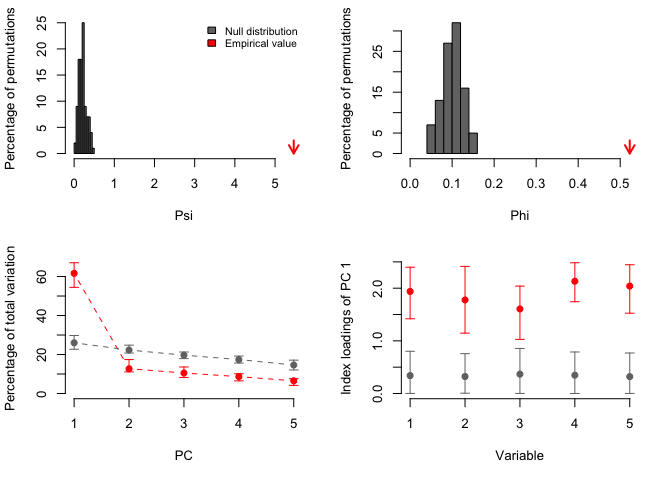
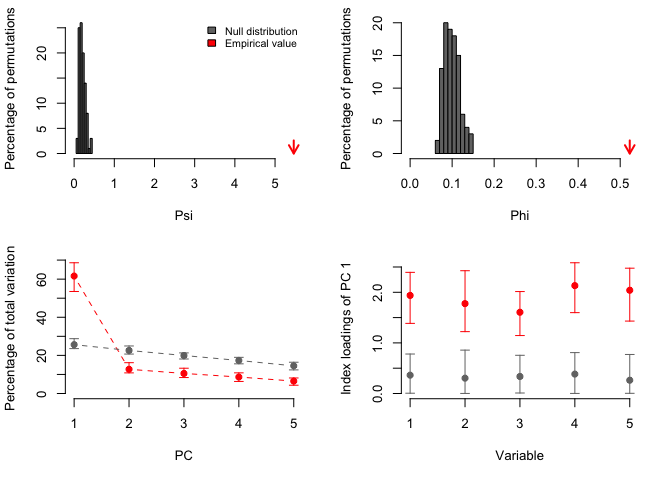
fix readme

diff --git a/README.md b/README.md
@@ -52,8 +52,8 @@ result<-PCAtest(ex0, 100, 100, 0.05, varcorr=FALSE, counter=FALSE, plot=TRUE)
 #> 100 bootstrap replicates, 100 random permutations
 #> ========================================================
 #> 
-#> Empirical Psi = 0.1691, Max null Psi = 0.5500, Min null Psi = 0.0538, p-value = 0.58
-#> Empirical Phi = 0.0920, Max null Phi = 0.1658, Min null Phi = 0.0519, p-value = 0.58
+#> Empirical Psi = 0.1691, Max null Psi = 0.5249, Min null Psi = 0.0578, p-value = 0.54
+#> Empirical Phi = 0.0920, Max null Phi = 0.1620, Min null Phi = 0.0538, p-value = 0.54
 #> 
 #> PCA is not significant!
 ```
@@ -78,16 +78,16 @@ result<-PCAtest(ex05, 100, 100, 0.05, varcorr=FALSE, counter=FALSE, plot=TRUE)
 #> 100 bootstrap replicates, 100 random permutations
 #> ========================================================
 #> 
-#> Empirical Psi = 5.4655, Max null Psi = 0.4907, Min null Psi = 0.0352, p-value = 0
-#> Empirical Phi = 0.5228, Max null Phi = 0.1566, Min null Phi = 0.0420, p-value = 0
+#> Empirical Psi = 5.4655, Max null Psi = 0.4143, Min null Psi = 0.0722, p-value = 0
+#> Empirical Phi = 0.5228, Max null Phi = 0.1439, Min null Phi = 0.0601, p-value = 0
 #> 
-#> Empirical eigenvalue #1 = 3.08098, Max null eigenvalue = 1.55398, p-value = 0
-#> Empirical eigenvalue #2 = 0.63526, Max null eigenvalue = 1.28982, p-value = 1
-#> Empirical eigenvalue #3 = 0.52603, Max null eigenvalue = 1.07691, p-value = 1
-#> Empirical eigenvalue #4 = 0.43234, Max null eigenvalue = 0.96972, p-value = 1
-#> Empirical eigenvalue #5 = 0.3254, Max null eigenvalue = 0.88768, p-value = 1
+#> Empirical eigenvalue #1 = 3.08098, Max null eigenvalue = 1.44839, p-value = 0
+#> Empirical eigenvalue #2 = 0.63526, Max null eigenvalue = 1.28687, p-value = 1
+#> Empirical eigenvalue #3 = 0.52603, Max null eigenvalue = 1.07151, p-value = 1
+#> Empirical eigenvalue #4 = 0.43234, Max null eigenvalue = 0.96044, p-value = 1
+#> Empirical eigenvalue #5 = 0.3254, Max null eigenvalue = 0.87155, p-value = 1
 #> 
-#> PC 1 is significant and accounts for 61.6% (95%-CI:54.5-67.1) of the total variation
+#> PC 1 is significant and accounts for 61.6% (95%-CI:53.5-68.6) of the total variation
 #> 
 #> Variables 1, 2, 3, 4, and 5 have significant loadings on PC 1
 ```
@@ -114,14 +114,14 @@ result<-PCAtest(ex1, 100, 100, 0.05, varcorr=FALSE, counter=FALSE, plot=TRUE)
 #> 100 bootstrap replicates, 100 random permutations
 #> ========================================================
 #> 
-#> Empirical Psi = 20.0000, Max null Psi = 0.4631, Min null Psi = 0.0375, p-value = 0
-#> Empirical Phi = 1.0000, Max null Phi = 0.1522, Min null Phi = 0.0433, p-value = 0
+#> Empirical Psi = 20.0000, Max null Psi = 0.6435, Min null Psi = 0.0473, p-value = 0
+#> Empirical Phi = 1.0000, Max null Phi = 0.1794, Min null Phi = 0.0486, p-value = 0
 #> 
-#> Empirical eigenvalue #1 = 5, Max null eigenvalue = 1.52565, p-value = 0
-#> Empirical eigenvalue #2 = 0, Max null eigenvalue = 1.29655, p-value = 1
-#> Empirical eigenvalue #3 = 0, Max null eigenvalue = 1.08443, p-value = 1
-#> Empirical eigenvalue #4 = 0, Max null eigenvalue = 0.99852, p-value = 1
-#> Empirical eigenvalue #5 = 0, Max null eigenvalue = 0.85708, p-value = 1
+#> Empirical eigenvalue #1 = 5, Max null eigenvalue = 1.64792, p-value = 0
+#> Empirical eigenvalue #2 = 0, Max null eigenvalue = 1.27693, p-value = 1
+#> Empirical eigenvalue #3 = 0, Max null eigenvalue = 1.1191, p-value = 1
+#> Empirical eigenvalue #4 = 0, Max null eigenvalue = 0.96938, p-value = 1
+#> Empirical eigenvalue #5 = 0, Max null eigenvalue = 0.87115, p-value = 1
 #> 
 #> PC 1 is significant and accounts for 100% (95%-CI:100-100) of the total variation
 #> 
@@ -149,18 +149,18 @@ result<-PCAtest(ants, 100, 100, 0.05, varcorr=FALSE, counter=FALSE, plot=TRUE)
 #> 100 bootstrap replicates, 100 random permutations
 #> ========================================================
 #> 
-#> Empirical Psi = 10.9186, Max null Psi = 3.1379, Min null Psi = 0.5491, p-value = 0
-#> Empirical Phi = 0.5099, Max null Phi = 0.2733, Min null Phi = 0.1143, p-value = 0
+#> Empirical Psi = 10.9186, Max null Psi = 2.5630, Min null Psi = 0.3943, p-value = 0
+#> Empirical Phi = 0.5099, Max null Phi = 0.2470, Min null Phi = 0.0969, p-value = 0
 #> 
-#> Empirical eigenvalue #1 = 3.84712, Max null eigenvalue = 2.42375, p-value = 0
-#> Empirical eigenvalue #2 = 1.52017, Max null eigenvalue = 1.69682, p-value = 0.15
-#> Empirical eigenvalue #3 = 0.70634, Max null eigenvalue = 1.39666, p-value = 1
-#> Empirical eigenvalue #4 = 0.41356, Max null eigenvalue = 1.1099, p-value = 1
-#> Empirical eigenvalue #5 = 0.34001, Max null eigenvalue = 0.91841, p-value = 1
-#> Empirical eigenvalue #6 = 0.14515, Max null eigenvalue = 0.7221, p-value = 1
-#> Empirical eigenvalue #7 = 0.02765, Max null eigenvalue = 0.64705, p-value = 1
+#> Empirical eigenvalue #1 = 3.84712, Max null eigenvalue = 2.17652, p-value = 0
+#> Empirical eigenvalue #2 = 1.52017, Max null eigenvalue = 1.71716, p-value = 0.25
+#> Empirical eigenvalue #3 = 0.70634, Max null eigenvalue = 1.42897, p-value = 1
+#> Empirical eigenvalue #4 = 0.41356, Max null eigenvalue = 1.138, p-value = 1
+#> Empirical eigenvalue #5 = 0.34001, Max null eigenvalue = 0.92547, p-value = 1
+#> Empirical eigenvalue #6 = 0.14515, Max null eigenvalue = 0.81947, p-value = 1
+#> Empirical eigenvalue #7 = 0.02765, Max null eigenvalue = 0.61403, p-value = 1
 #> 
-#> PC 1 is significant and accounts for 55% (95%-CI:42.3-63.6) of the total variation
+#> PC 1 is significant and accounts for 55% (95%-CI:42.6-63.1) of the total variation
 #> 
 #> Variables 1, 2, 3, 4, 5, and 7 have significant loadings on PC 1
 ```
@@ -178,9 +178,9 @@ Gleason, T. C. and Staelin R. (1975) A proposal for handling missing
 data. Psychometrika, 40, 229–252. Jackson, J. E. (1991) A User’s Guide
 to Principal Components. John Wiley & Sons, New York, USA. Ringnér, M.
 (2008) What is principal component analysis? Nature Biotechnology, 26,
-303–304. item ter Braak, C. F. J. (1990) Update notes: CANOCO (version
-3.1). Agricultural Mattematic Group, Report LWA-88-02, Wagningen,
-Netherlands. Vieira, V. M. N. C. S. (2012) Permutation tests to estimate
+303–304. ter Braak, C. F. J. (1990) Update notes: CANOCO (version 3.1).
+Agricultural Mattematic Group, Report LWA-88-02, Wagningen, Netherlands.
+Vieira, V. M. N. C. S. (2012) Permutation tests to estimate
 significances on Principal Components Analysis. Computational Ecology
 and Software, 2, 103–123. Wong, M. K. L. and Carmona, C. P. (2021)
 Including intraspecific trait variability to avoid distortion of
